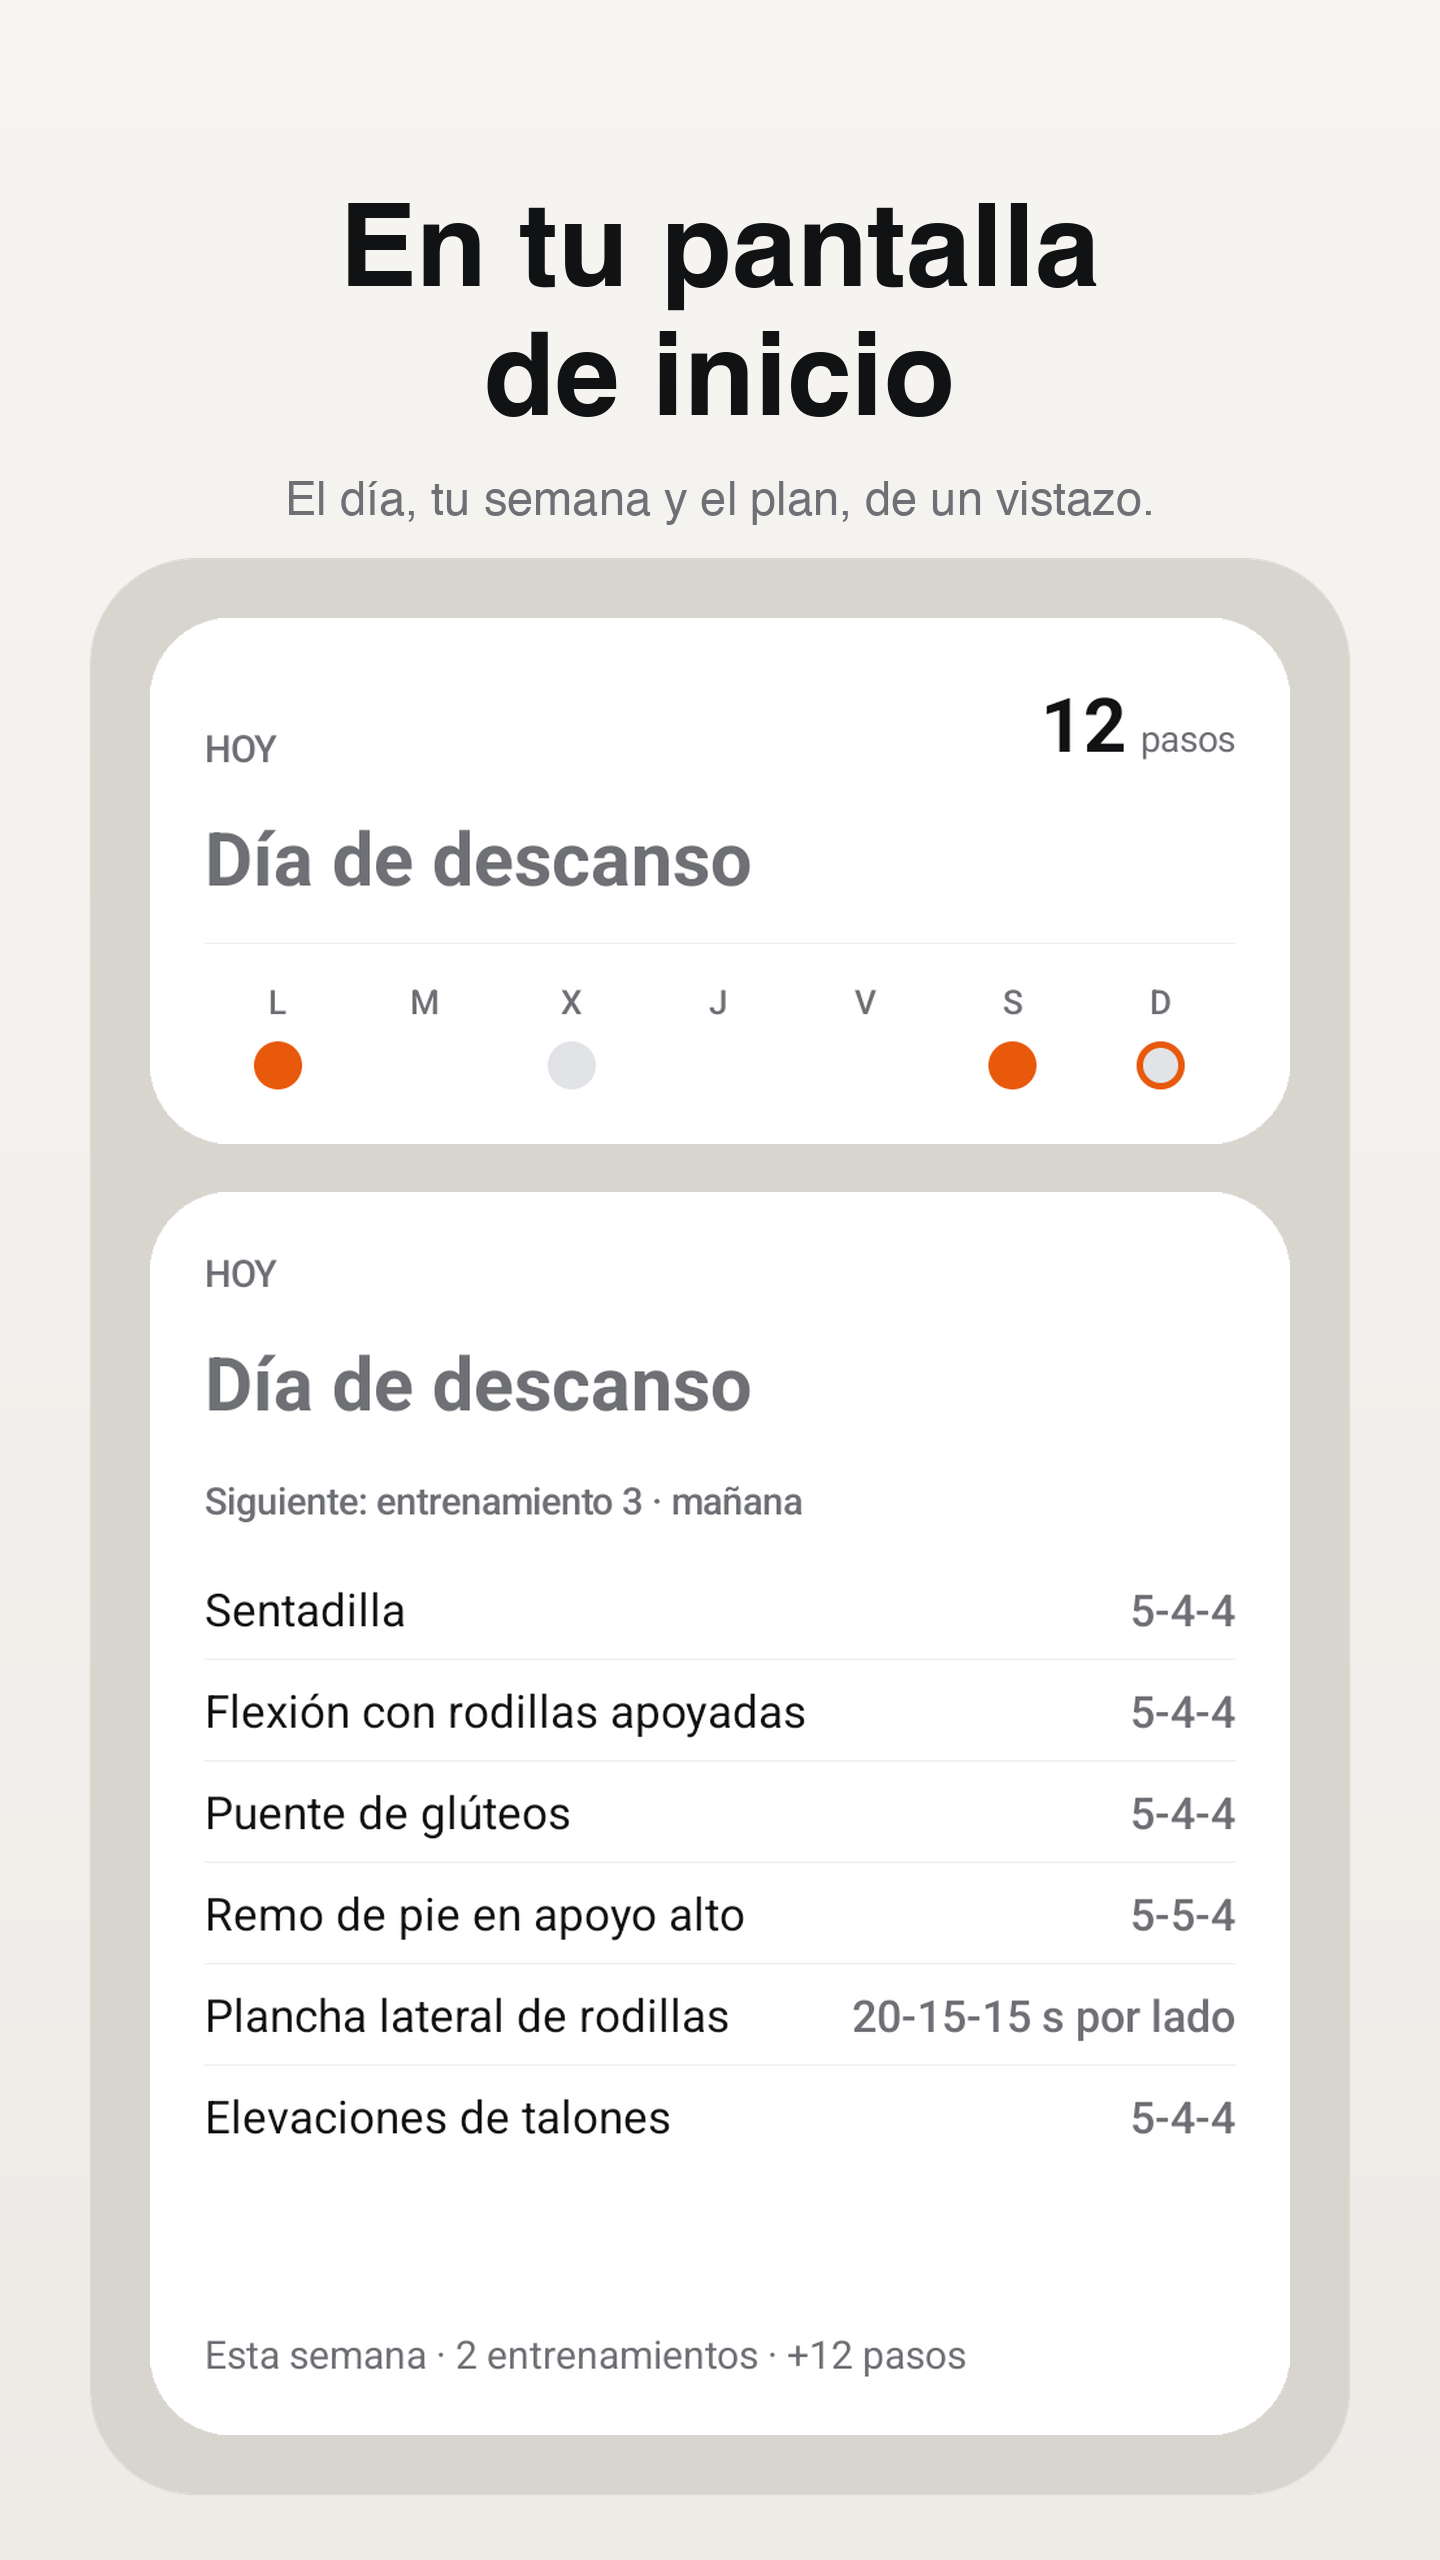
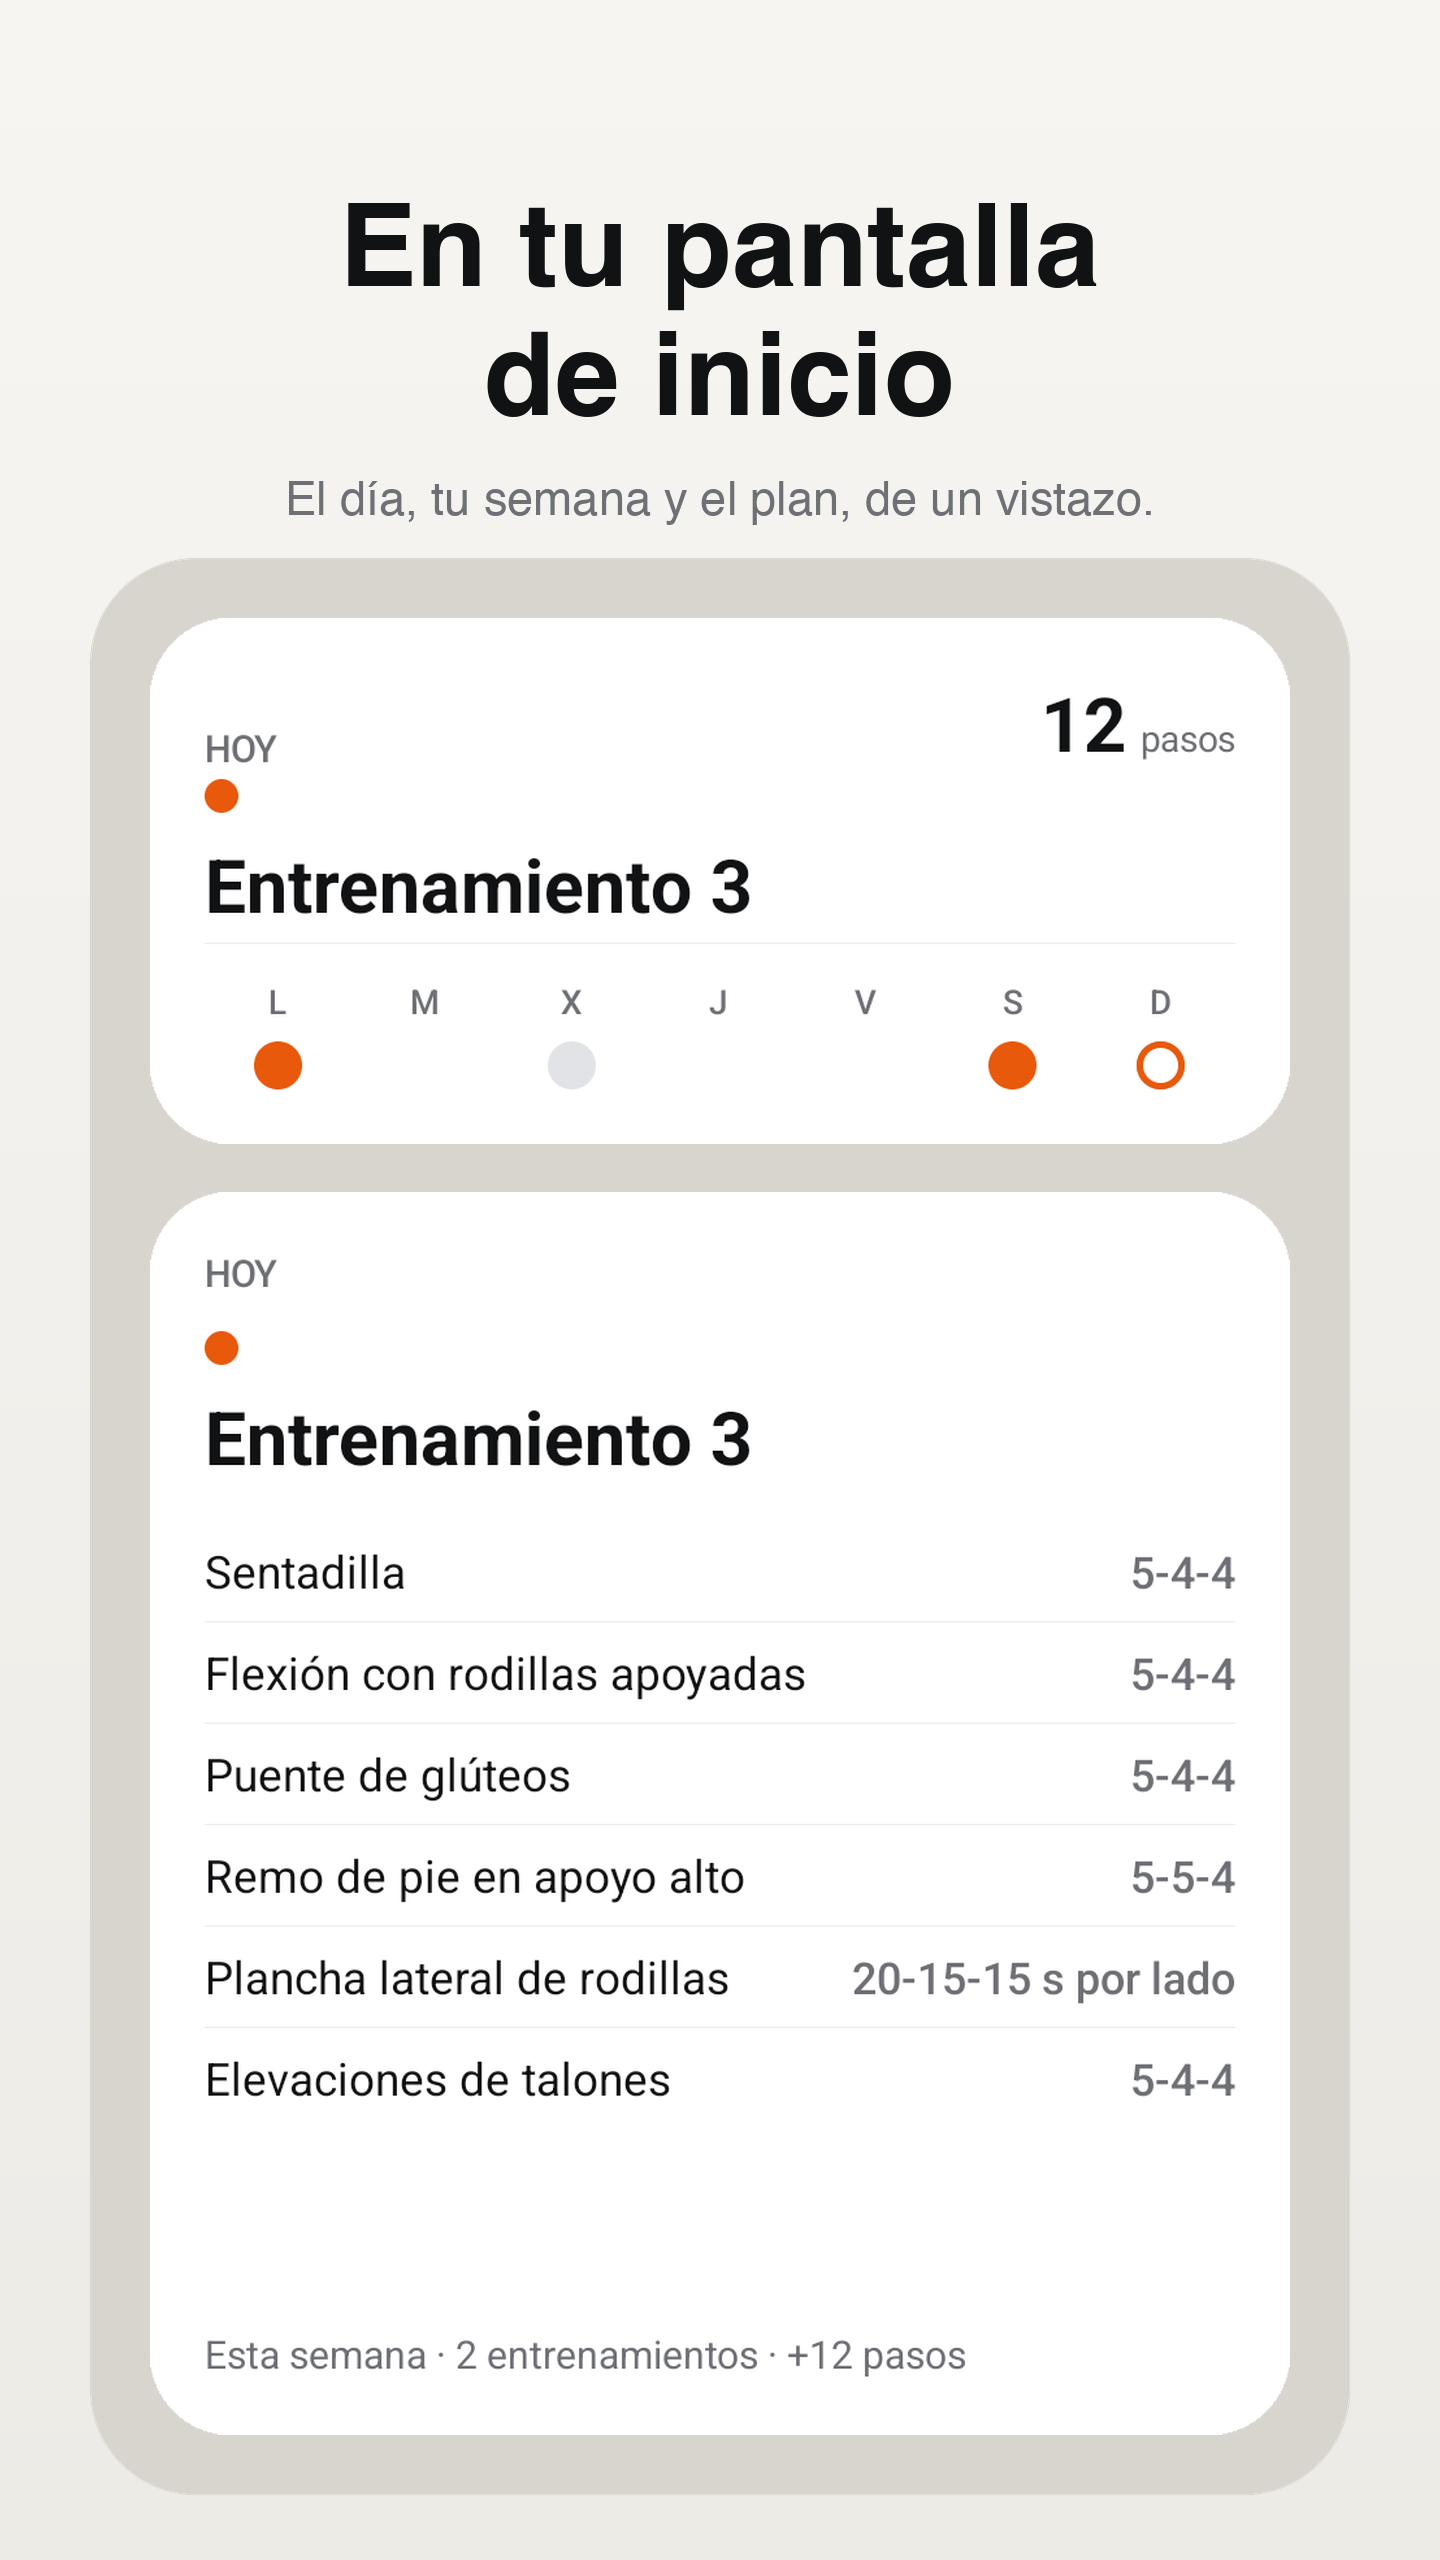
chore(playstore): the widget frame shows a training day and its plan

diff --git a/android/app/src/androidTest/kotlin/com/dredfit/WidgetScreenshots.kt b/android/app/src/androidTest/kotlin/com/dredfit/WidgetScreenshots.kt
@@ -58,14 +58,17 @@ class WidgetScreenshots {
 
     /** This week as a person three workouts in: Monday and yesterday done,
      *  the rest missed, Wednesday and Sunday resting — every mark the strip
-     *  draws. `day` decides today. */
+     *  draws. `day` decides today: neither resting day is today unless `day`
+     *  says rest (a Sunday run drew "Rest day" for the workout frames, and
+     *  the Play listing's widget frame went out that way). */
     private fun seed(day: Day) {
         val zone = ZoneId.systemDefault()
         val today = LocalDate.now(zone)
         val monday = today.with(TemporalAdjusters.previousOrSame(DayOfWeek.MONDAY))
         val rest = buildSet {
-            add(swiftWeekday(DayOfWeek.SUNDAY))
-            if (today.dayOfWeek != DayOfWeek.WEDNESDAY) add(swiftWeekday(DayOfWeek.WEDNESDAY))
+            for (resting in listOf(DayOfWeek.WEDNESDAY, DayOfWeek.SUNDAY)) {
+                if (today.dayOfWeek != resting) add(swiftWeekday(resting))
+            }
             if (day == Day.rest) add(swiftWeekday(today.dayOfWeek))
         }
         app.resetForTests({ instrumentation.runOnMainSync(it) }) { path ->

diff --git a/store/playstore/tools/captions.py b/store/playstore/tools/captions.py
@@ -110,8 +110,8 @@ CAPTIONS = {
     },
     # New for Play: the home-screen widget — one widget whose layout follows
     # its size (TodayStatusWidget.kt): the day, then the week, then the plan.
-    # Worded for any day: WidgetScreenshots rests on Wednesdays and Sundays,
-    # so the frame can show "Rest day" as well as "Workout N".
+    # Worded for any day, though the frame is a training day: WidgetScreenshots'
+    # workout seed never rests today, so it shows "Workout N" and the plan.
     "07-widget": {
         "en-US": (["On your home screen"], "The day, your week and the plan at a glance."),
         "ru-RU": (["На главном экране"], "День, неделя и план — все на виду."),
